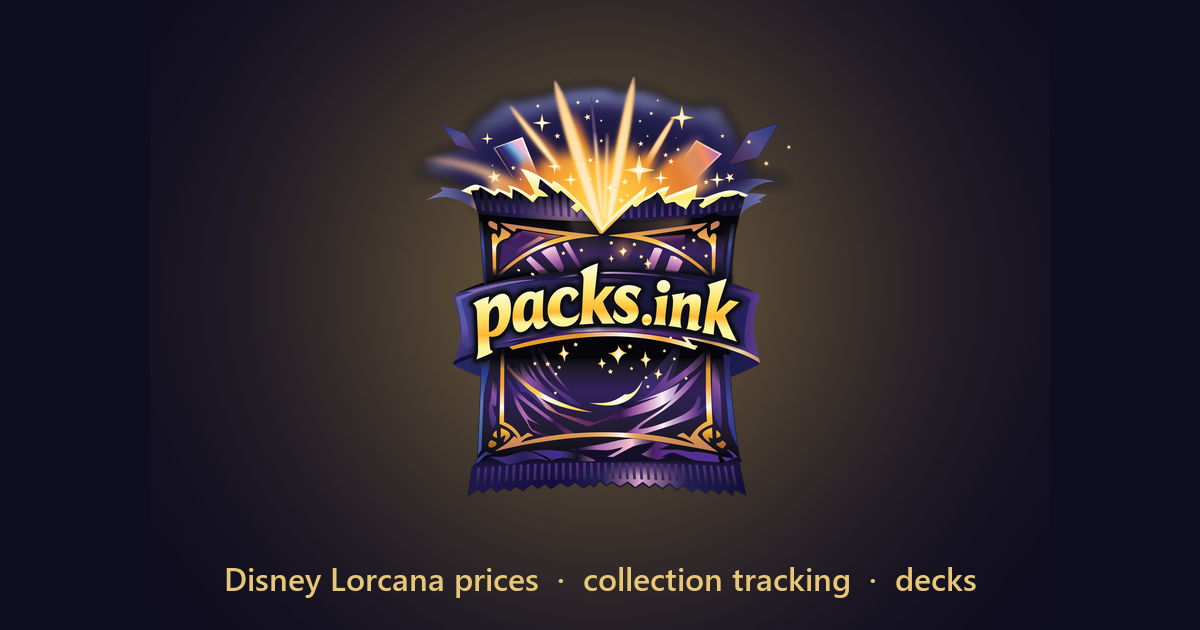
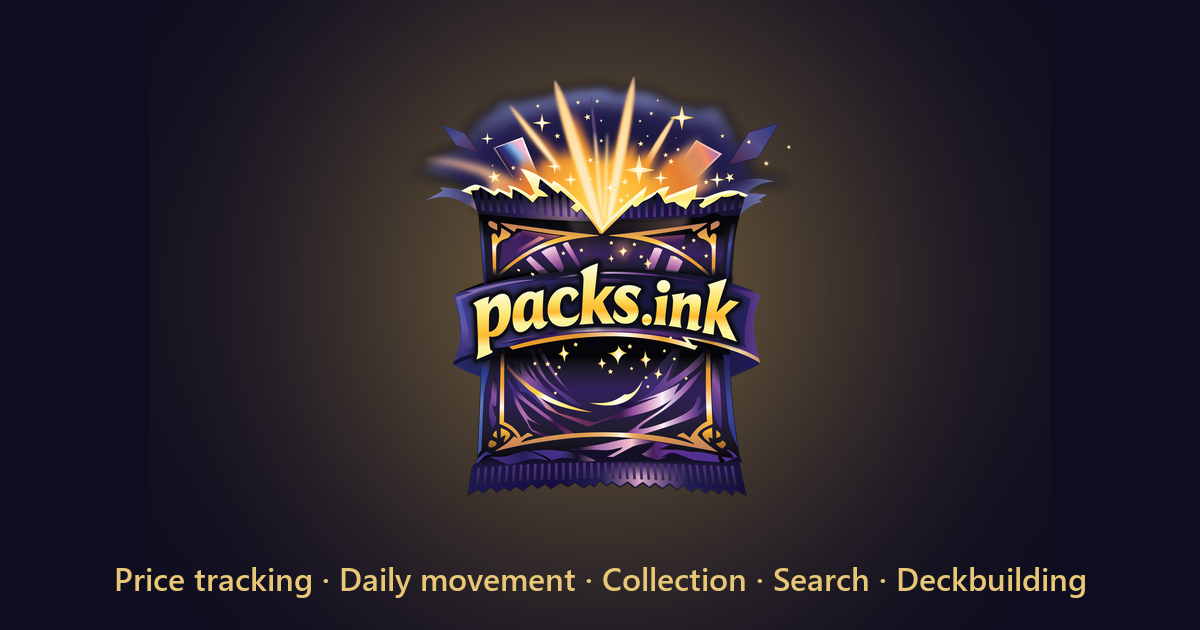
Social share copy rewrite: lead with "ultimate Lorcana tool"
Reframe the OG/Twitter card and baked og-image tagline around the
all-in-one tool pitch. Drop the brand-repeat headline, the "Free" /
"no signup" angles, and tournament decks. New description leads with
price tracking, daily movement, graded sales history, collection
tracking, card search, and deckbuilding.

- Index.html: title, meta description, og:*, twitter:*, JSON-LD all
  updated in lockstep; og:image/twitter:image bumped ?v=1 -> ?v=2.
- make_og_image.py: new tagline + auto-shrink so the segment list
  can't overrun the 1200px width; rebaked og-image.png.

Changed region(s): [[0.0925, 0.9048, 0.925, 0.9651]]

diff --git a/Index.html b/Index.html
@@ -25,27 +25,27 @@
 </script>
 <meta charset="utf-8">
 <meta name="viewport" content="width=device-width,initial-scale=1,viewport-fit=cover">
-<title>Packs.Ink — Lorcana Card Prices, Collection & Decks</title>
+<title>Packs.Ink — The Ultimate Disney Lorcana Tool</title>
 <!-- SEO + social share metadata. og:image is a static 1200×630 baked by
      scripts/make_og_image.py — rebake + bump the ?v= if the logo changes.
      Social scrapers don't run JS, so these static tags are what Discord /
      X / iMessage render. document.title + canonical are updated per-view
      at runtime (see VIEW_TITLES in the app). -->
-<meta name="description" content="Track Disney Lorcana card prices, your collection's value, and winning decks — daily market data, price history charts, graded values, EV tools and more. Free.">
+<meta name="description" content="Real-time price tracking, daily price movement, graded sales history, collection tracking, card search, and deckbuilding — all in one.">
 <meta property="og:type" content="website">
 <meta property="og:site_name" content="Packs.Ink">
-<meta property="og:title" content="Packs.Ink — Lorcana Card Prices, Collection & Decks">
-<meta property="og:description" content="Track Disney Lorcana card prices, your collection's value, and winning decks — daily market data, price charts, graded values and more. Free.">
+<meta property="og:title" content="Packs.Ink — The Ultimate Disney Lorcana Tool">
+<meta property="og:description" content="Real-time price tracking, daily price movement, graded sales history, collection tracking, card search, and deckbuilding — all in one.">
 <meta property="og:url" content="https://packs.ink/">
-<meta property="og:image" content="https://packs.ink/og-image.png?v=1">
+<meta property="og:image" content="https://packs.ink/og-image.png?v=2">
 <meta property="og:image:width" content="1200">
 <meta property="og:image:height" content="630">
 <meta name="twitter:card" content="summary_large_image">
-<meta name="twitter:title" content="Packs.Ink — Lorcana Card Prices, Collection & Decks">
-<meta name="twitter:description" content="Track Disney Lorcana card prices, your collection's value, and winning decks — daily market data, price charts, graded values and more. Free.">
-<meta name="twitter:image" content="https://packs.ink/og-image.png?v=1">
+<meta name="twitter:title" content="Packs.Ink — The Ultimate Disney Lorcana Tool">
+<meta name="twitter:description" content="Real-time price tracking, daily price movement, graded sales history, collection tracking, card search, and deckbuilding — all in one.">
+<meta name="twitter:image" content="https://packs.ink/og-image.png?v=2">
 <script type="application/ld+json">
-{"@context":"https://schema.org","@type":"WebSite","name":"Packs.Ink","url":"https://packs.ink/","description":"Disney Lorcana card prices, collection tracking, deck building and tournament results."}
+{"@context":"https://schema.org","@type":"WebSite","name":"Packs.Ink","url":"https://packs.ink/","description":"The ultimate Disney Lorcana tool: real-time price tracking, daily price movement, graded sales history, collection tracking, card search, and deckbuilding."}
 </script>
 <!-- PWA: installable on mobile + offline shell via service worker. -->
 <link rel="manifest" href="/manifest.json">

diff --git a/scripts/make_og_image.py b/scripts/make_og_image.py
@@ -15,7 +15,7 @@ OUT = os.path.join(ROOT, "og-image.png")
 W, H = 1200, 630
 BG = (15, 13, 32)          # #0f0d20 — matches theme-color / PWA icons
 GLOW = (240, 199, 94)      # warm gold, matches the logo burst
-TAGLINE = "Disney Lorcana prices  ·  collection tracking  ·  decks"
+TAGLINE = "Price tracking · Daily movement · Collection · Search · Deckbuilding"
 TAG_COLOR = (232, 200, 119)
 
 img = Image.new("RGB", (W, H), BG)
@@ -43,9 +43,16 @@ def load_font(size):
             continue
     return ImageFont.load_default()
 
-font = load_font(32)
 d = ImageDraw.Draw(img)
-tw = d.textlength(TAGLINE, font=font)
+# Auto-shrink the tagline so it never overruns the image width (the segment
+# list can grow); start at 32 and step down until it fits with a side margin.
+size = 32
+while size > 20:
+    font = load_font(size)
+    tw = d.textlength(TAGLINE, font=font)
+    if tw <= W - 80:
+        break
+    size -= 1
 d.text(((W - tw) / 2, 556), TAGLINE, font=font, fill=TAG_COLOR)
 
 img.save(OUT, "PNG", optimize=True)
